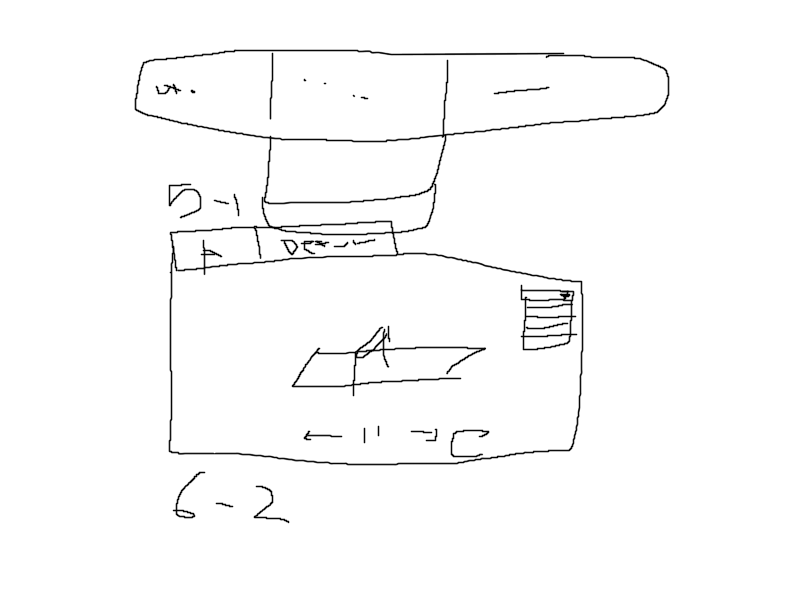
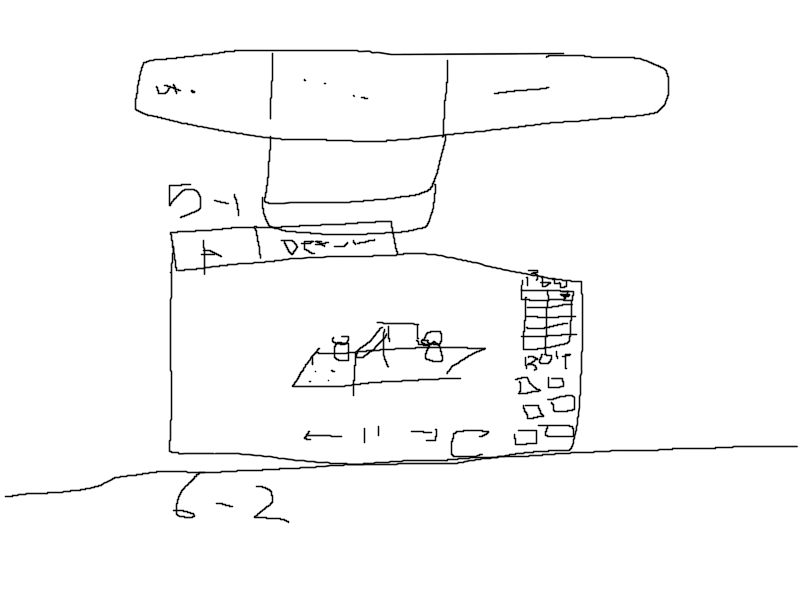
Refactor scene setup and update styles for improved layout and aesthetics

diff --git a/src/style.css b/src/style.css
@@ -1,3 +1,6 @@
+/* Google Fonts — must come before any other rules */
+@import url('https://fonts.googleapis.com/css2?family=Inter:wght@400;600');
+
 :root{
    /* Colors (hue = 202)*/
    --bg: hsl(202 10% 92%);
@@ -7,7 +10,7 @@
    --accent-dark: hsl(202 84% 40%);
    --text: hsl(202 84% 10%);
    --navbar: hsl(202 65% 86% / 0.7);
-   --navbar-dark: hsl(202 65% 76% / 0.5);
+   --navbar-dark: hsl(202 65% 36% / 0.2);
 }
 * {
    box-sizing: border-box;
@@ -18,9 +21,9 @@
 }
 
 body {
-   background: var(--bg);
-   color: var(--text);
-   max-width: 50rem;
+   background: var(--accent);
+   color: var(--bg);
+   max-width: 70%;
    margin: auto;
 }
 
@@ -37,11 +40,11 @@ div {
    top: 24px;
    left: 50%;
    transform: translateX(-50%);
-   width: min(50rem, 100vw - 48px);
+   width: min(70%, 100vw - 48px);
    background: var(--navbar);
    backdrop-filter: blur(12px);
    -webkit-backdrop-filter: blur(12px);
-   border: 1px solid var(--text);
+   border: 1px solid var(--bg);
    border-radius: 16px;
    z-index: 1000;
    overflow: hidden;
@@ -52,7 +55,7 @@ div {
 }
 
 .navbar a {
-   color: var(--text);
+   color: var(--bg);
    text-decoration: none;
    padding: 24px;
 }

diff --git a/src/main.js b/src/main.js
@@ -4,16 +4,16 @@ import * as THREE from 'three'
 import { GLTFLoader } from 'three/examples/jsm/loaders/GLTFLoader.js'
 import { OrbitControls } from 'three/examples/jsm/controls/OrbitControls'
 
+// Scene setup
 const scene = new THREE.Scene();
 scene.background = new THREE.Color('black')
 const canvas = document.querySelector('#scene-canvas')
 const camera = new THREE.PerspectiveCamera(75, canvas.clientWidth / canvas.clientHeight, 0.1, 1000)
 
 const renderer = new THREE.WebGLRenderer({
-  canvas,
-})
+  canvas})
 
-camera.position.setZ(30)
+camera.position.set(11, 6, -6)
 
 // Match the drawing buffer to the canvas's displayed size × device pixel ratio.
 // Returns true when a resize actually happened. Capping DPR at 2 keeps it